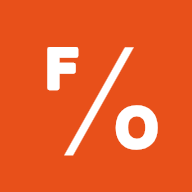
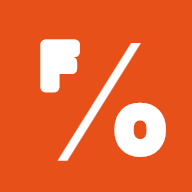
v7

diff --git a/generate-icons.html b/generate-icons.html
@@ -55,20 +55,24 @@ function drawIcon(canvas, maskable) {
   ctx.fillStyle = '#E8501A';
   ctx.fillRect(0, 0, size, size);
 
-  // For maskable: scale down to ~66% and center (safe zone)
-  // For standard: use full SVG coordinates
   var s = size / 512;
+  var strokeW = 10;
+  var slashExtra = 0;
+
   if (maskable) {
-    s = s * 1.15;
+    // Bigger, bolder for Android adaptive icon
+    s = s * 1.25;
+    strokeW = 22;
+    slashExtra = 8; // extra width on slash polygon
     ctx.save();
-    ctx.translate(size * -0.075, size * -0.075);
+    ctx.translate(size * -0.125, size * -0.125);
   }
 
-  // Font settings matching SVG
+  // Font settings
   const fontSize = Math.round(125 * s);
   ctx.fillStyle = '#FFFFFF';
   ctx.strokeStyle = '#FFFFFF';
-  ctx.lineWidth = 10 * s;
+  ctx.lineWidth = strokeW * s;
   ctx.lineJoin = 'round';
   ctx.font = 'bold ' + fontSize + 'px Arial, Helvetica, sans-serif';
 
@@ -78,13 +82,13 @@ function drawIcon(canvas, maskable) {
   ctx.fillText('F', 139 * s, 237 * s);
   ctx.strokeText('F', 139 * s, 237 * s);
 
-  // "/" diagonal slash
+  // "/" diagonal slash (wider for maskable)
   ctx.fillStyle = '#FFFFFF';
   ctx.beginPath();
-  ctx.moveTo(323 * s, 143 * s);
-  ctx.lineTo(344 * s, 143 * s);
-  ctx.lineTo(203 * s, 394 * s);
-  ctx.lineTo(182 * s, 394 * s);
+  ctx.moveTo((323 + slashExtra) * s, 143 * s);
+  ctx.lineTo((344 + slashExtra) * s, 143 * s);
+  ctx.lineTo((203 - slashExtra) * s, 394 * s);
+  ctx.lineTo((182 - slashExtra) * s, 394 * s);
   ctx.closePath();
   ctx.fill();
 
